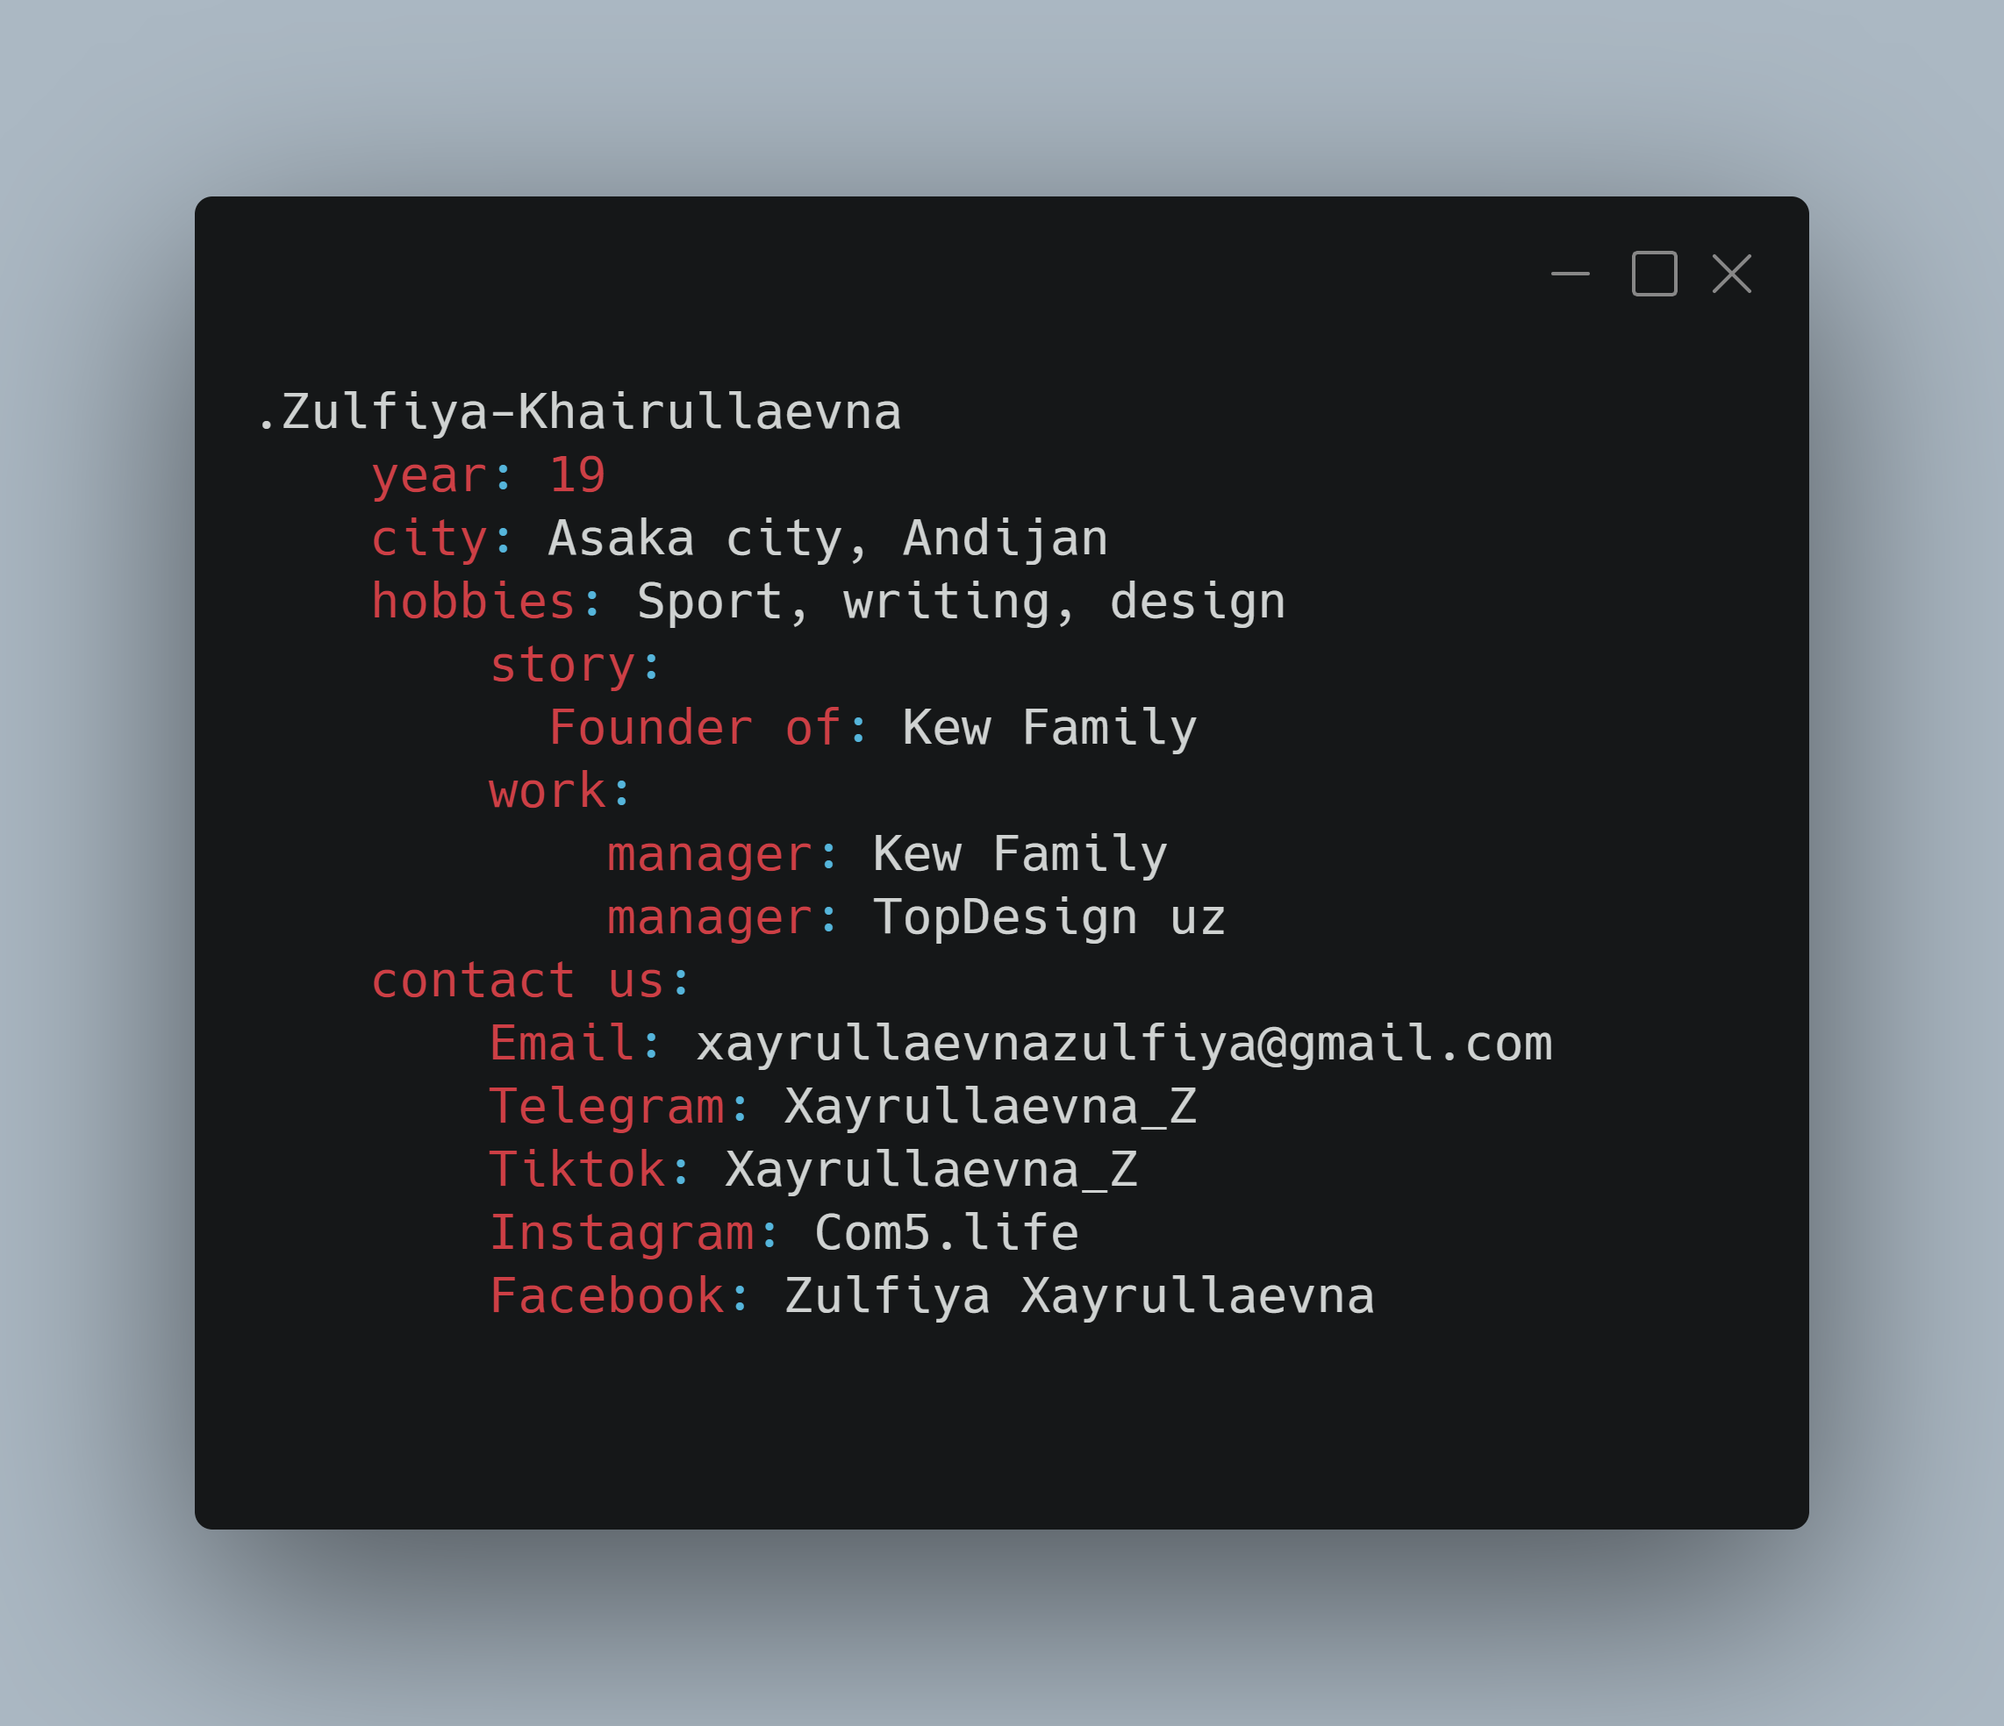
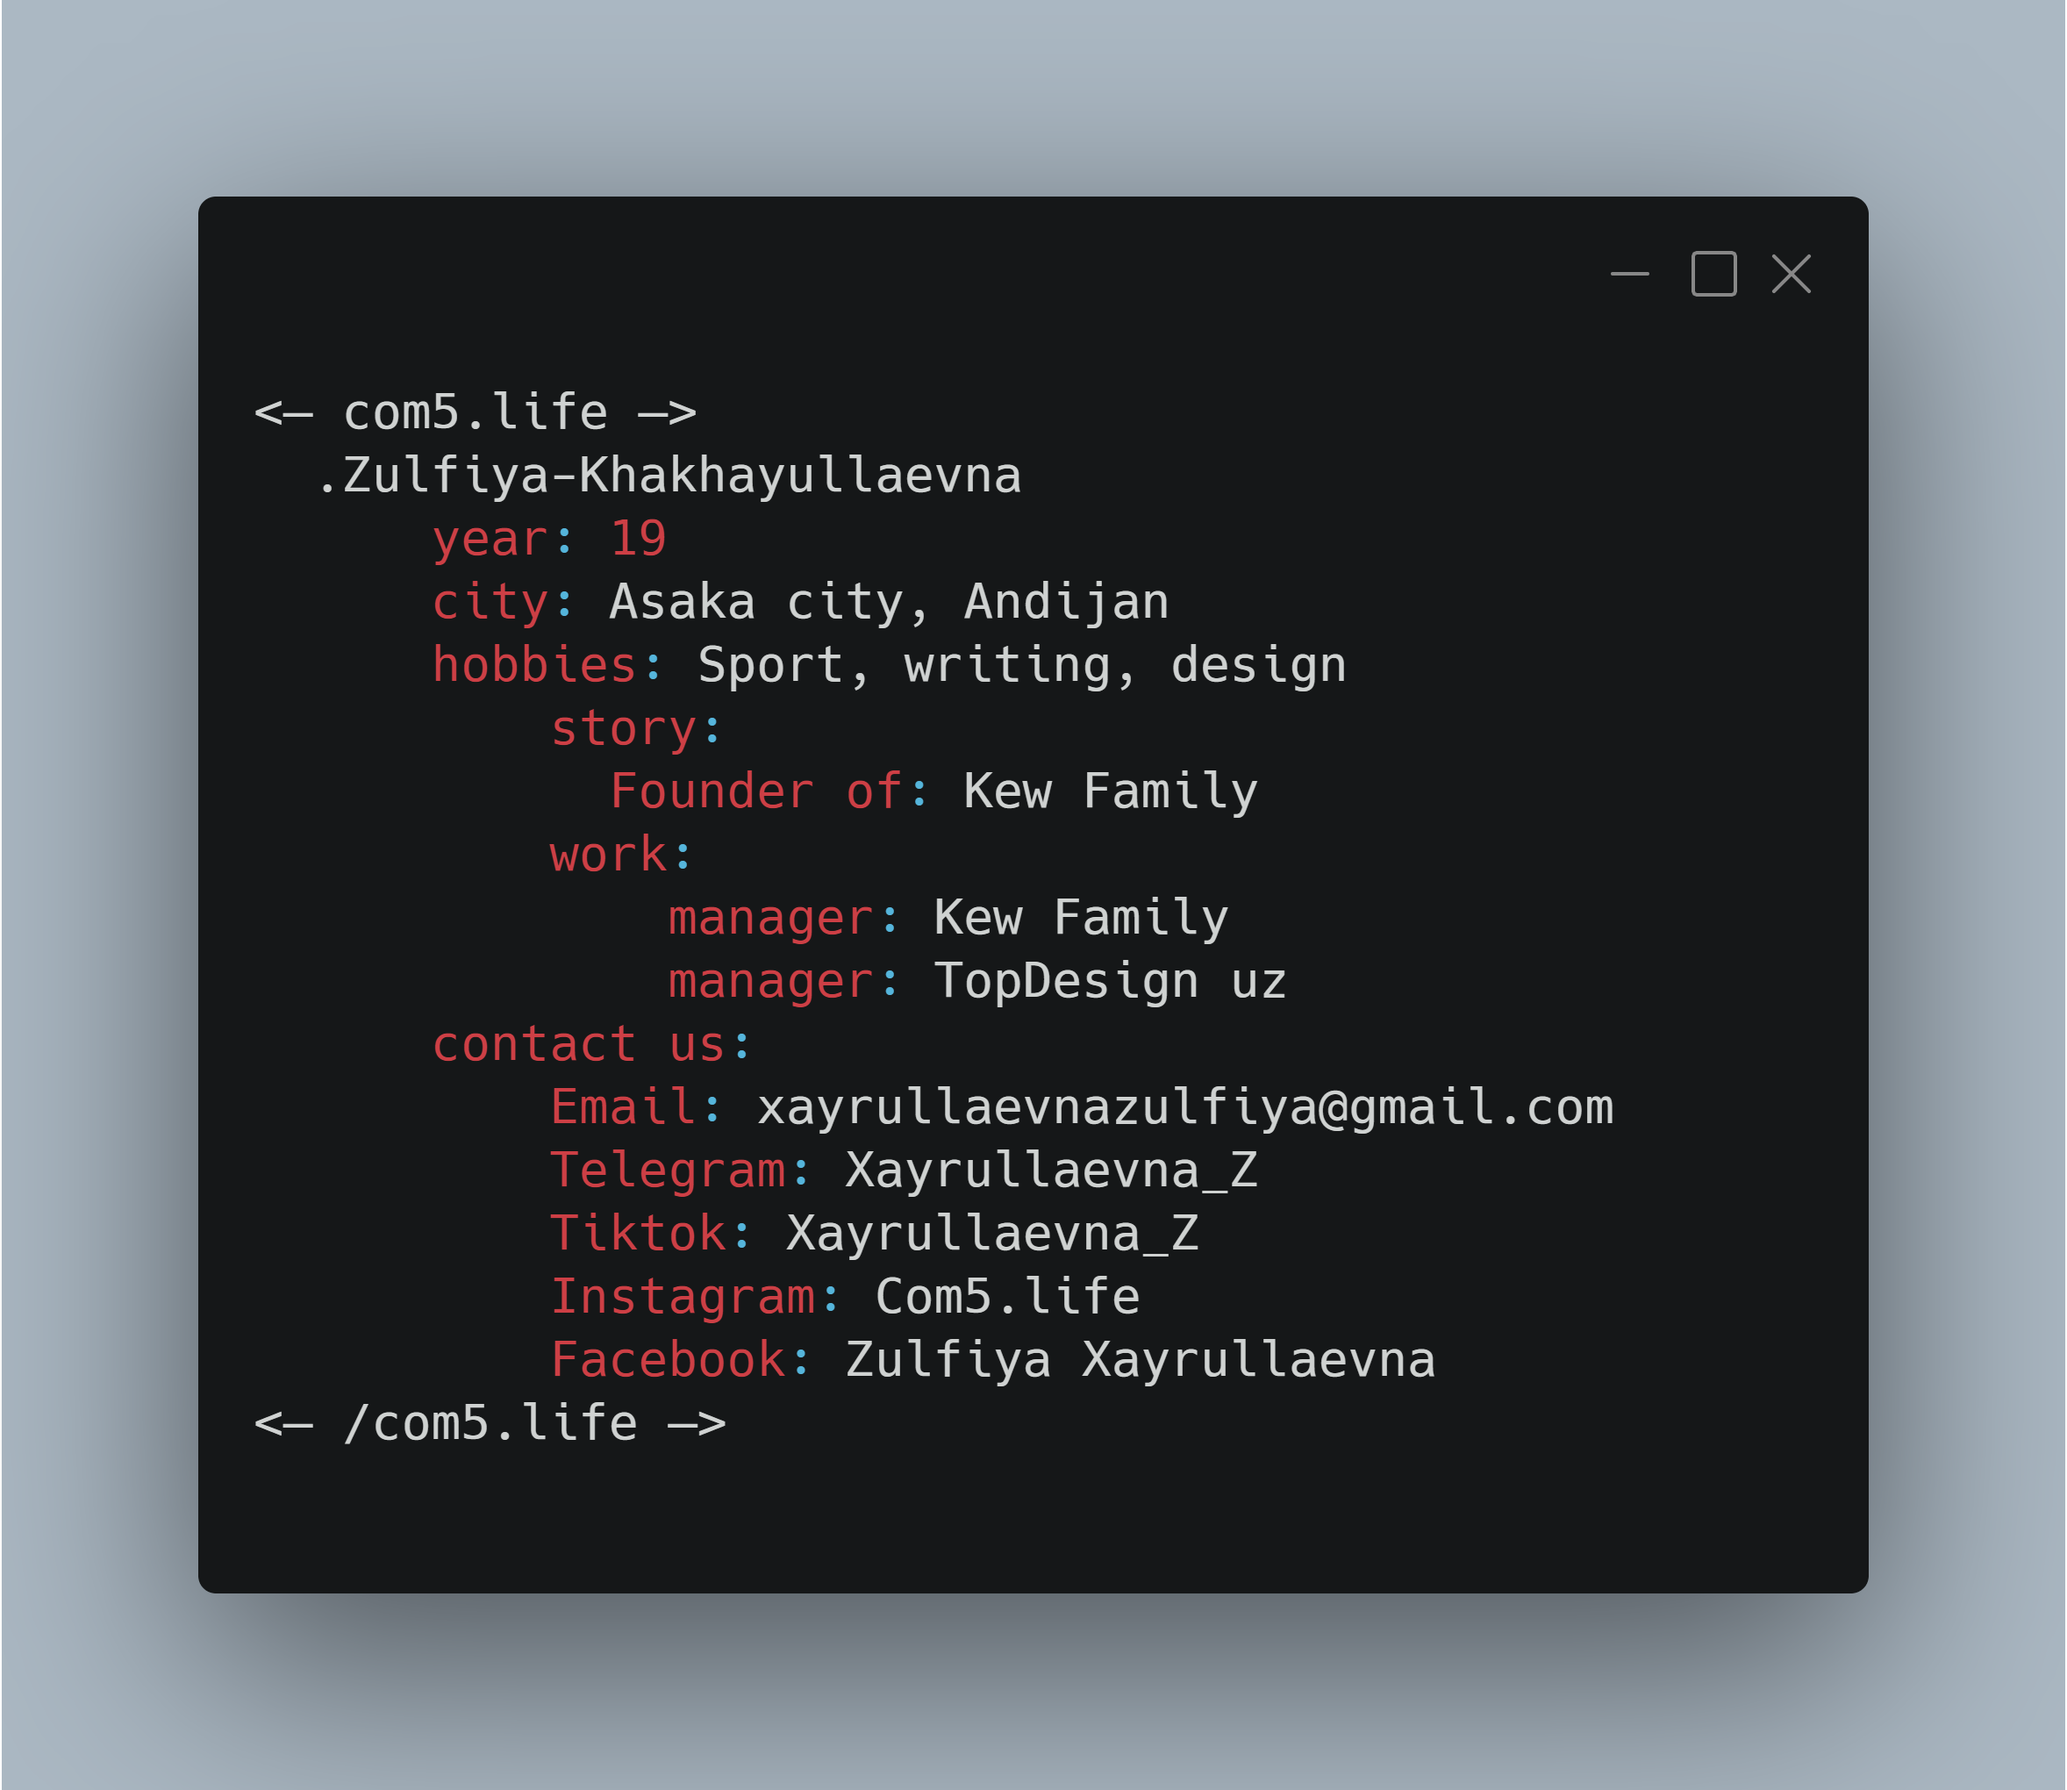
+ Zulfiya-carbon.png

diff --git a/README.html b/README.html
@@ -1,0 +1,22 @@
+<html>
+      <head>
+        <meta charset="UTF-8">
+        <title>README.md</title>
+      </head>
+      <body>
+        <h1 id="kew-family-github-io">Kew-Family.github.io</h1>
+<h1 id="oila-a-zolari-">Oila A&#39;zolari:</h1>
+<h3 id="asakew">asaKew</h3>
+<p><img src="https://github.com/asakew/asakew/blob/main/carbon-asakew.png" alt="asaKew"></p>
+<h3 id="izzatbekmadaminov">izzatbekMadaminov</h3>
+<p><img src="https://github.com/izzatbekMadaminov/Mkew/blob/Mkew/photo_2021-01-25_14-39-07.jpg" alt="izzatbekMadaminov"></p>
+<h3 id="zulfiyaxayrullaevna">ZulfiyaXayrullaevna</h3>
+<p><img src="assets/img/team/Zulfiya-carbon.png" alt="ZulfiyaXayrullaevna"></p>
+<h4 id="other-info">other info</h4>
+<ul>
+<li>github markdown: <a href="https://guides.github.com/features/mastering-markdown/">https://guides.github.com/features/mastering-markdown/</a></li>
+<li>github markdown Table: <a href="https://www.pluralsight.com/guides/working-tables-github-markdown">https://www.pluralsight.com/guides/working-tables-github-markdown</a></li>
+</ul>
+
+      </body>
+    </html>

diff --git a/README.md b/README.md
@@ -7,6 +7,9 @@
 ### izzatbekMadaminov
 ![izzatbekMadaminov](https://github.com/izzatbekMadaminov/Mkew/blob/Mkew/photo_2021-01-25_14-39-07.jpg)
 
+### ZulfiyaXayrullaevna
+![ZulfiyaXayrullaevna](assets/img/team/Zulfiya-carbon.png)
+
 
 #### other info
 * github markdown: https://guides.github.com/features/mastering-markdown/
